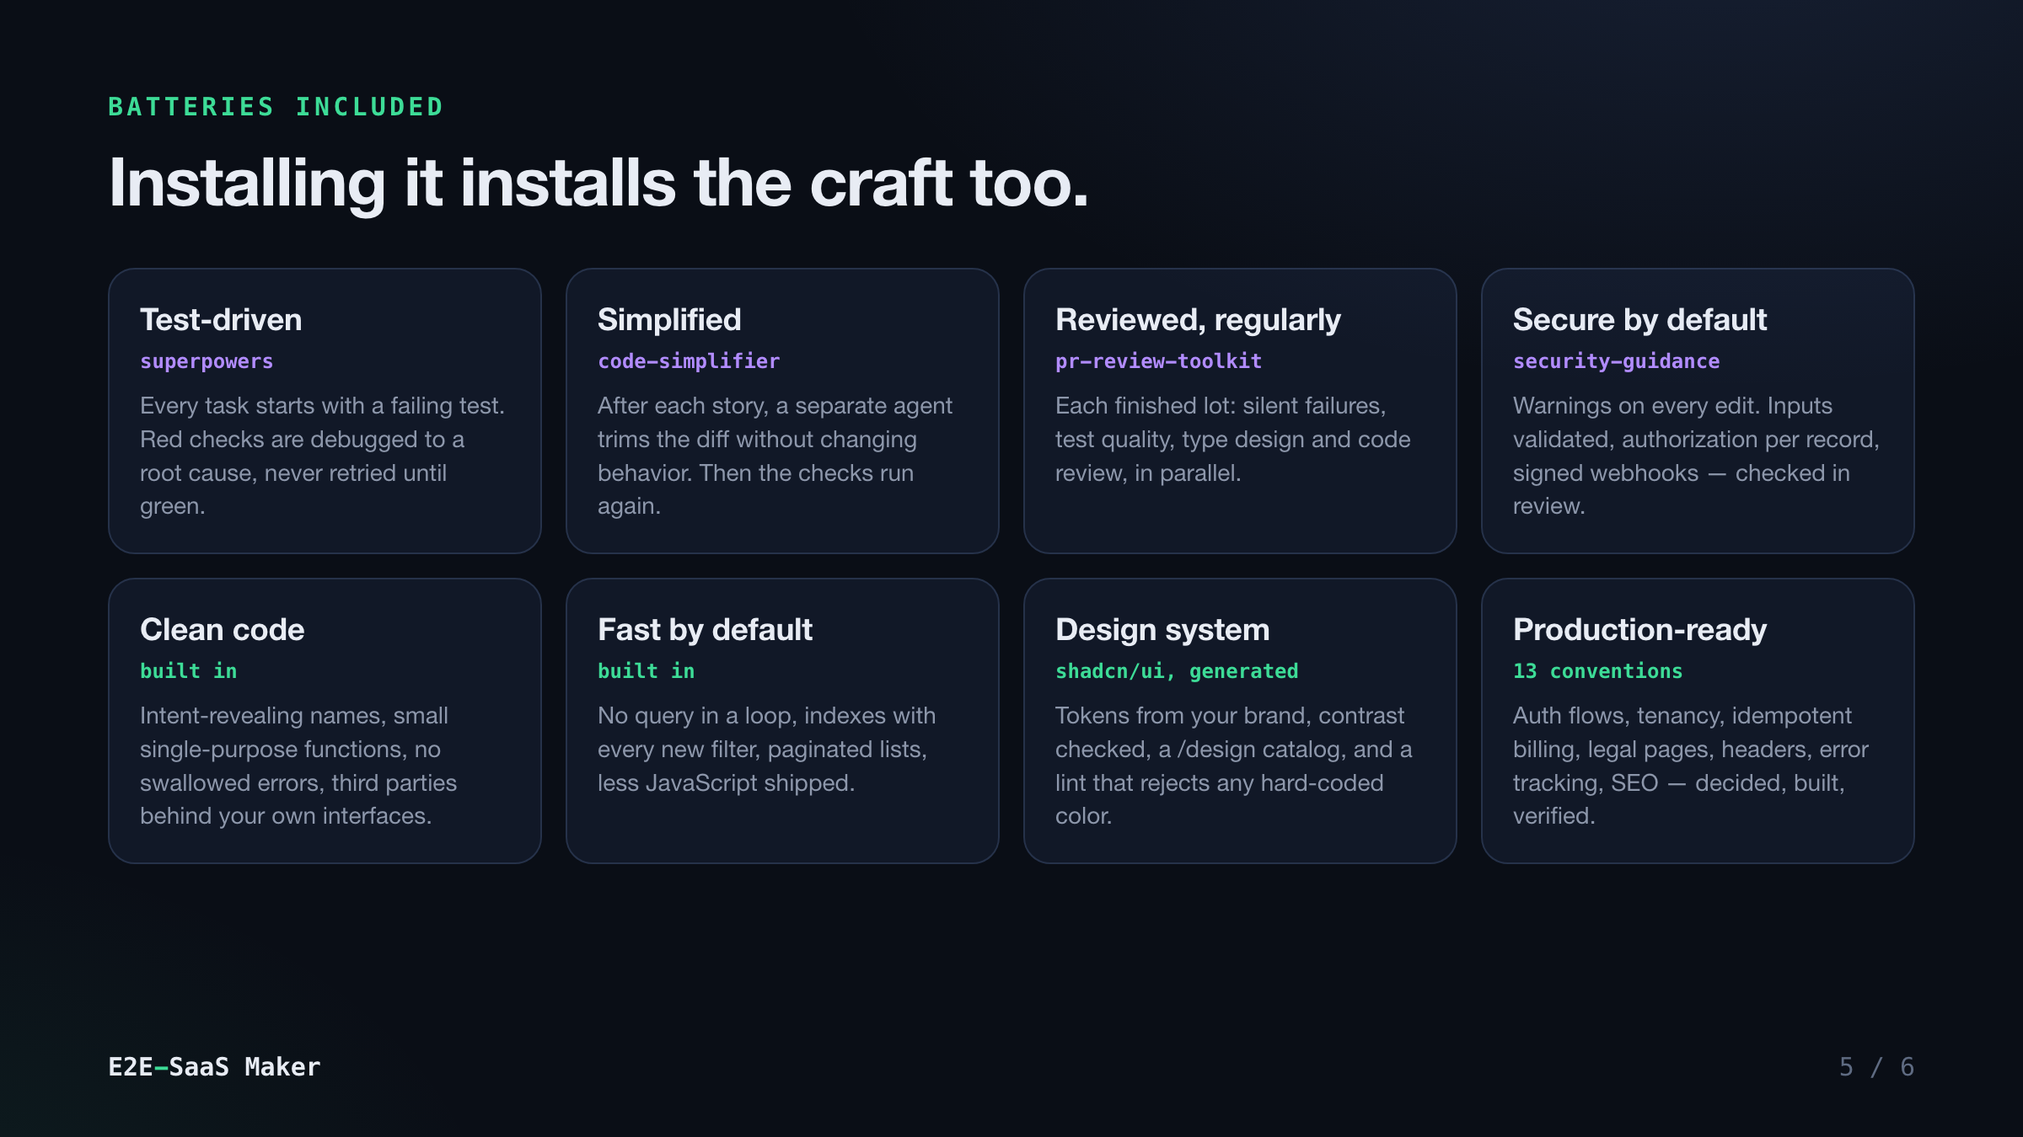
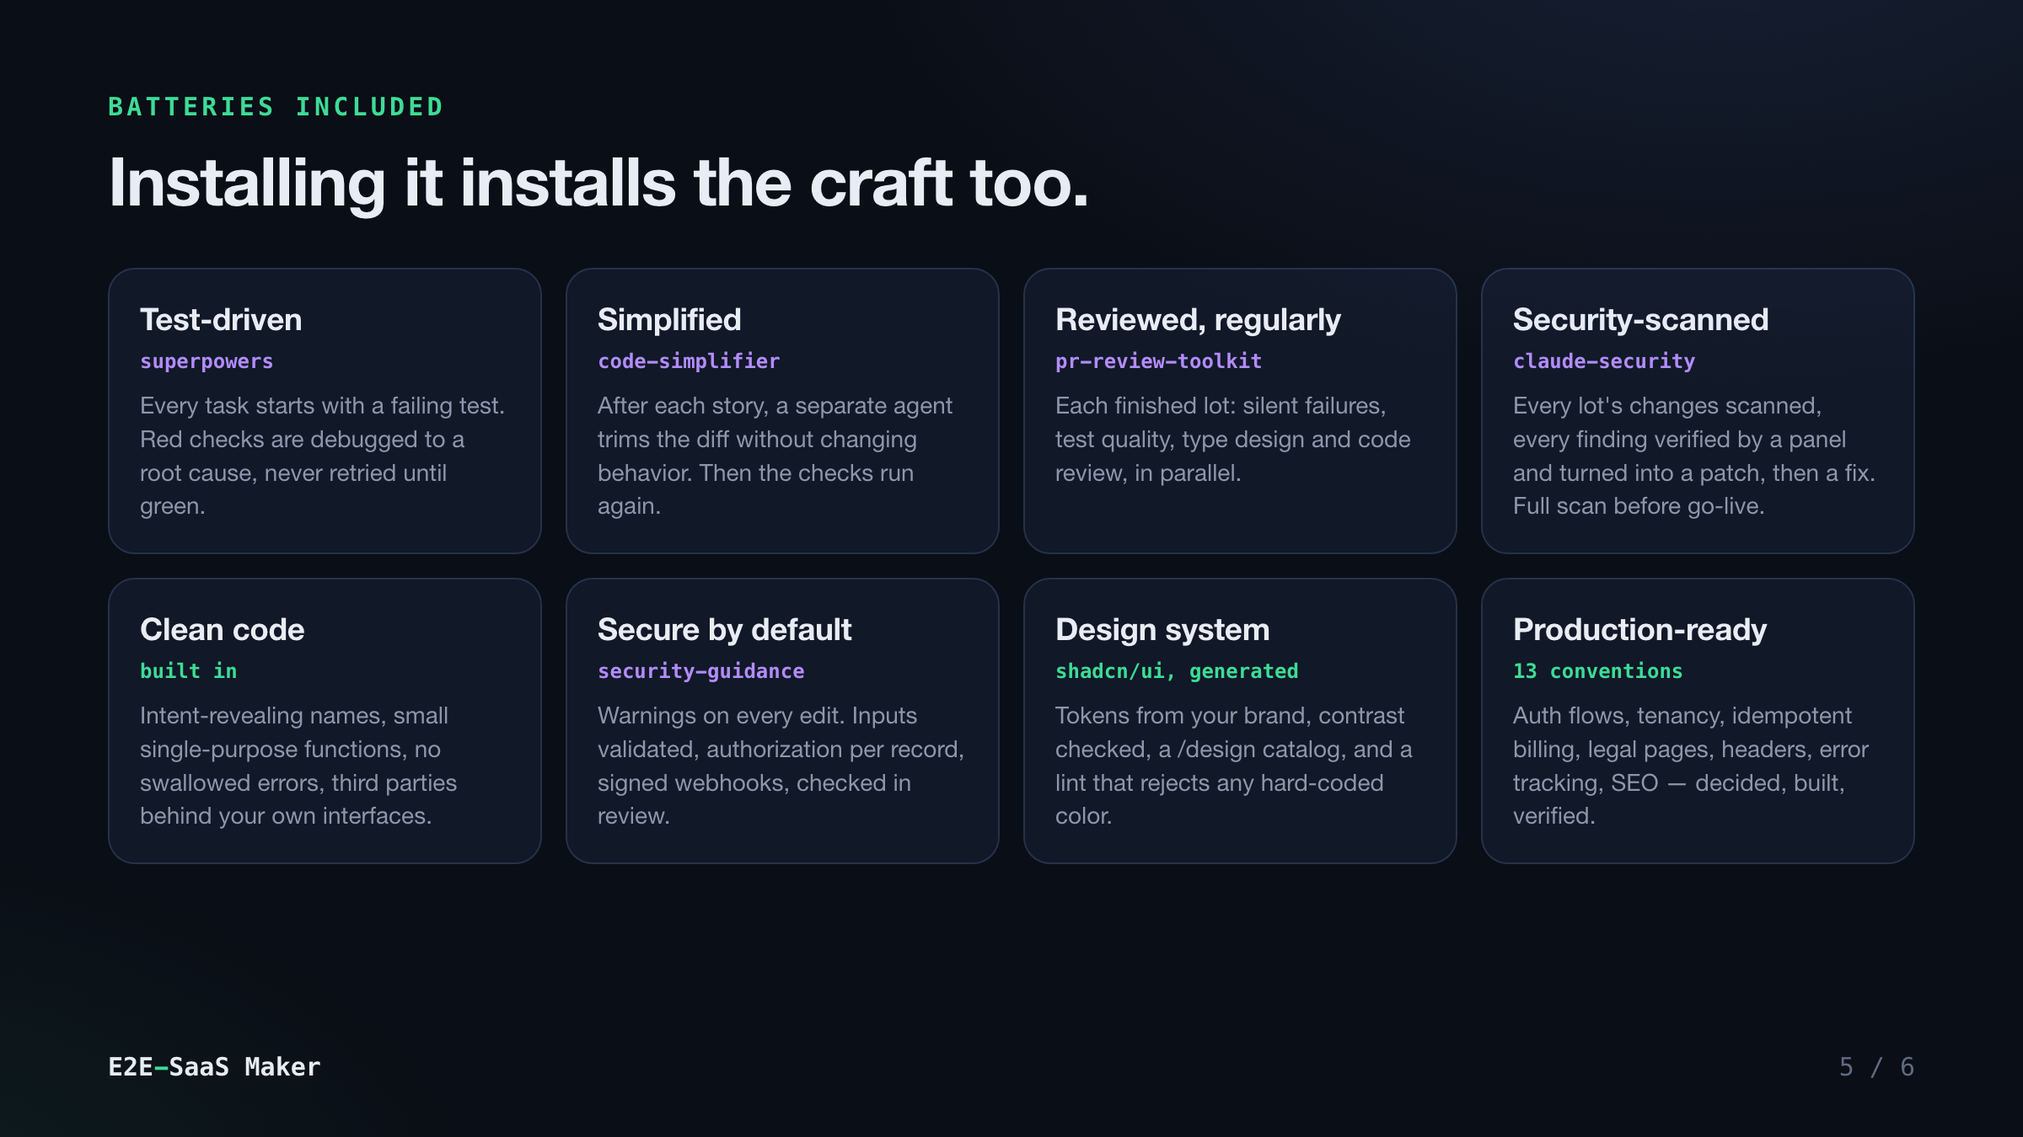
feat: Claude Security in the workflow — every lot scanned, full scan before go-live
- claude-security is a companion plugin (dependency, doctor)
- each lot review runs a scan of the changes since the last scanned lot; verified
  findings come with patch files and become repair stories
- ship runs a full codebase scan; nothing goes live with a critical or high finding open
- a lot review only counts as done with its Security scan line (clean, findings-filed,
  or unavailable with a reason); raw reports are gitignored and never committed
- README, how-it-works, flow diagram and cards updated

Changed region(s): [[0.75, 0.2489, 0.9375, 0.4667], [0.2812, 0.5289, 0.4688, 0.7156]]

diff --git a/docs/assets/src/flow.html b/docs/assets/src/flow.html
@@ -2,14 +2,14 @@
 html,body{height:300px}
 .wrap{position:relative;width:1200px;height:300px;padding:24px 28px;display:flex;align-items:center;gap:10px}
 .wrap::before{content:"";position:absolute;inset:0;background:radial-gradient(700px 300px at 85% -20%,rgba(110,155,255,.12),transparent 60%);pointer-events:none}
-.node{flex:0 0 122px;border-radius:16px;background:var(--panel);border:1.5px solid rgba(255,181,71,.6);padding:18px 16px;text-align:center}
+.node{flex:0 0 112px;border-radius:16px;background:var(--panel);border:1.5px solid rgba(255,181,71,.6);padding:18px 16px;text-align:center}
 .node .t{font:700 18px/1.1 var(--sans)}.node .w{font:600 13px/1.35 var(--mono);color:var(--amber);margin-top:8px}
 .ar{color:var(--dim);font-size:22px;flex:0 0 auto}
 .loop{flex:1;min-width:0;border:1.5px dashed rgba(110,155,255,.55);border-radius:20px;padding:40px 12px 30px;position:relative}
 .loop .lab{position:absolute;top:12px;left:18px;font:700 13px/1 var(--mono);letter-spacing:.1em;text-transform:uppercase;color:var(--blue)}
 .steps{display:flex;align-items:center;gap:4px}
 .s{flex:1;min-width:0;border-radius:12px;background:var(--panel2);border:1px solid var(--line);padding:12px 6px;text-align:center}
-.s .t{font:700 13.5px/1.1 var(--sans)}.s .w{font:600 10.5px/1.3 var(--mono);color:var(--muted);margin-top:6px}
+.s .t{font:700 12.5px/1.1 var(--sans)}.s .w{font:600 10px/1.3 var(--mono);color:var(--muted);margin-top:6px}
 .s.g{border-color:rgba(61,220,151,.55)}.s.g .w{color:var(--green)}
 .s.b{border-color:rgba(110,155,255,.55)}
 .s.v{border-color:rgba(178,140,255,.55)}
@@ -28,5 +28,6 @@ html,body{height:300px}
 <div class="s g"><div class="t">Integrate</div><div class="w">gates pass</div></div>
 </div><div class="back">↺ refused review → back to Build (twice max, then you)</div></div>
 <div class="ar">→</div>
-<div class="node"><div class="t">Ship</div><div class="w">you say<br>go</div></div>
+<div class="node" style="border-color:rgba(255,99,99,.6)"><div class="t">Every lot</div><div class="w" style="color:var(--red)">deep review<br>+ security<br>scan</div></div><div class="ar">→</div>
+<div class="node"><div class="t">Ship</div><div class="w">full scan,<br>you say go</div></div>
 </div></body></html>

diff --git a/docs/assets/src/5-craft.html b/docs/assets/src/5-craft.html
@@ -12,9 +12,9 @@
 <div class="c"><h3>Test-driven</h3><div class="tag">superpowers</div><p>Every task starts with a failing test. Red checks are debugged to a root cause, never retried until green.</p></div>
 <div class="c"><h3>Simplified</h3><div class="tag">code-simplifier</div><p>After each story, a separate agent trims the diff without changing behavior. Then the checks run again.</p></div>
 <div class="c"><h3>Reviewed, regularly</h3><div class="tag">pr-review-toolkit</div><p>Each finished lot: silent failures, test quality, type design and code review, in parallel.</p></div>
-<div class="c"><h3>Secure by default</h3><div class="tag">security-guidance</div><p>Warnings on every edit. Inputs validated, authorization per record, signed webhooks — checked in review.</p></div>
+<div class="c"><h3>Security-scanned</h3><div class="tag">claude-security</div><p>Every lot's changes scanned, every finding verified by a panel and turned into a patch, then a fix. Full scan before go-live.</p></div>
 <div class="c own"><h3>Clean code</h3><div class="tag">built in</div><p>Intent-revealing names, small single-purpose functions, no swallowed errors, third parties behind your own interfaces.</p></div>
-<div class="c own"><h3>Fast by default</h3><div class="tag">built in</div><p>No query in a loop, indexes with every new filter, paginated lists, less JavaScript shipped.</p></div>
+<div class="c"><h3>Secure by default</h3><div class="tag">security-guidance</div><p>Warnings on every edit. Inputs validated, authorization per record, signed webhooks, checked in review.</p></div>
 <div class="c own"><h3>Design system</h3><div class="tag">shadcn/ui, generated</div><p>Tokens from your brand, contrast checked, a /design catalog, and a lint that rejects any hard-coded color.</p></div>
 <div class="c own"><h3>Production-ready</h3><div class="tag">13 conventions</div><p>Auth flows, tenancy, idempotent billing, legal pages, headers, error tracking, SEO — decided, built, verified.</p></div>
 </div>

diff --git a/docs/assets/src/3-cycle.html b/docs/assets/src/3-cycle.html
@@ -33,7 +33,7 @@
 <div class="g"><span>✓</span></div>
 <div class="st s"><div class="box"><div class="t">Check</div><div class="w">build + e2e on the whole</div></div><div class="who">e2e.py</div></div>
 </div>
-<div class="back"><b>Refused?</b> A critical finding sends the story back to the builder with the review as its to-do list — <i>twice at most</i>, then it comes to you. Every finished lot gets a deep multi-agent review before the next one starts.</div>
+<div class="back"><b>Refused?</b> A critical finding sends the story back to the builder with the review as its to-do list — <i>twice at most</i>, then it comes to you. Every finished lot gets a deep multi-agent review and a <i>Claude Security</i> scan before the next one starts.</div>
 <div class="legend"><span class="pill"><span class="dot" style="background:var(--blue)"></span>agent of this plugin</span><span class="pill"><span class="dot" style="background:var(--violet)"></span>companion plugin</span><span class="pill"><span class="dot" style="background:var(--green)"></span>script, no opinion</span></div>
 <div class="foot"><span class="brand">E2E<b>-</b>SaaS Maker</span><span>3 / 6</span></div>
 </div></body></html>

diff --git a/skills/e2e-saas/scripts/e2e.py b/skills/e2e-saas/scripts/e2e.py
@@ -59,12 +59,15 @@ COMPANIONS = {
     "code-simplifier": "the simplification pass after every story",
     "pr-review-toolkit": "the lot reviews (silent failures, tests, type design)",
     "security-guidance": "security warnings on every edit",
+    "claude-security": "the security scan of every lot and of the whole code before going live",
 }
+SECURITY_SCAN_OUTCOMES = ("clean", "findings-filed", "unavailable")
 # Never committed by `verify`, whatever the project's .gitignore says.
 FORBIDDEN_STAGED = re.compile(
     r"(^|/)(node_modules|\.next|\.turbo|coverage|playwright-report|test-results)/"
     r"|(^|/)\.env(?!\.example$)[^/]*$"
     r"|\.(db|sqlite|sqlite3|log)$"
+    r"|(^|/)CLAUDE-SECURITY-[^/]*/"
 )
 MAX_STAGED_BYTES = 5_000_000
 BASE_GITIGNORE = """node_modules/
@@ -79,6 +82,7 @@ test-results/
 *.db
 *.sqlite
 .DS_Store
+CLAUDE-SECURITY-*/
 """
 
 # A check that cannot fail is a lie told by a green light.
@@ -692,8 +696,13 @@ def check_state(config: Config, done: set[str]) -> str:
 
 
 def lot_review_done(lot: str) -> bool:
+    """Done means reviewed AND security-scanned: a scan that did not run says so, with its reason."""
     path = project_root() / DOCS / "lots" / f"lot-{lot}-review.md"
-    return path.exists() and field_value(path.read_text(encoding="utf-8"), "Lot review") == "done"
+    if not path.exists():
+        return False
+    text = path.read_text(encoding="utf-8")
+    scan = (field_value(text, "Security scan") or "").split(" ", 1)[0]
+    return field_value(text, "Lot review") == "done" and scan in SECURITY_SCAN_OUTCOMES
 
 
 def framing_started() -> bool:

diff --git a/skills/e2e-saas/scripts/test_e2e.py b/skills/e2e-saas/scripts/test_e2e.py
@@ -377,6 +377,17 @@ class CycleTest(Project):
         sh("git", "mv", "config.txt", ".env.production", cwd=folder)
         self.assertTrue(e2e.verify("s01-skeleton").startswith("FAILED"))
 
+    def test_a_lot_review_without_its_security_scan_line_is_not_done(self):
+        self.frame()
+        self.integrate_first_story()
+        e2e.check()
+        review = self.root / "docs/e2e/lots/lot-0-review.md"
+        self.write("docs/e2e/lots/lot-0-review.md", "Lot review: done\n")
+        self.assertFalse(e2e.lot_review_done("0"))
+        self.assertIn({"story": None, "action": "lot-review", "lot": "0"}, e2e.status()["for_the_loop"])
+        review.write_text("Security scan: unavailable — no Workflow tool in this session\nLot review: done\n")
+        self.assertTrue(e2e.lot_review_done("0"))
+
     def test_stop_file_empties_the_loop_queue(self):
         self.frame()
         self.write("docs/e2e/STOP", "")

diff --git a/docs/how-it-works.md b/docs/how-it-works.md
@@ -64,12 +64,17 @@ own git worktree and goes through eight steps, with a gate between each one:
 
 When a lot is finished, the plugin runs a **deep review** before the next lot starts. Four
 review agents work in parallel: silent failures, test quality, type design and general code
-review. Each finding is verified by hand, and real ones become new stories.
+review. Alongside them, **[Claude Security](https://claude.com/marketplace/plugins/claude-security)**
+scans everything that changed since the last scanned lot; each candidate finding is challenged
+by its own verifier panel and comes with a patch file. Every real finding becomes a new story
+(the patch is the builder's starting point, still test-first). A lot review only counts as done
+when it records the scan's outcome: clean, findings filed, or unavailable with a reason.
 
 ### 3. Ship: with you
 
-`/e2e-saas-maker:ship` runs a final review of the whole diff and walks the real product in a
-browser. It then goes through the **ship log** with you: accounts, secrets, migrations, DNS
+`/e2e-saas-maker:ship` runs a final review of the whole diff, a **full Claude Security scan of
+the codebase** (nothing goes live with a verified critical or high finding open), and walks the
+real product in a browser. It then goes through the **ship log** with you: accounts, secrets, migrations, DNS
 and webhooks, collected story by story. Nothing touches production without your go. After
 deploying, it checks the live site from the outside, because a green deploy does not prove
 the site answers.
@@ -134,6 +139,7 @@ rules, they are the core of how code gets written:
 | `code-simplifier` | The simplification pass after every story |
 | `pr-review-toolkit` | The lot reviews: silent failures, test quality, type design, code review |
 | `security-guidance` | Security warnings on every edit |
+| [`claude-security`](https://claude.com/marketplace/plugins/claude-security) | A scan of every finished lot and of the whole codebase before going live, findings verified by a panel and delivered as patches |
 
 Clean-code principles, a security baseline and a performance baseline are built into the
 builder and reviewer instructions (`skills/e2e-saas/references/craft.md`). The fresh-context
@@ -191,7 +197,7 @@ picks up exactly where the files are.
 - **It builds a first version, not a company.** Expect a solid, tested v1 of the scope you
   approved. Judgment calls about the product stay yours.
 - **It spends tokens.** Every story uses four agents (plan, build, simplify, review), and
-  every lot runs four more reviewers. That is the price of not trusting a single context.
+  every lot runs four more reviewers plus a security scan. That is the price of not trusting a single context.
 - **Legal pages are templates.** Terms and privacy are drafted for the product and flagged
   for your review; they are not legal advice.
 - **Production needs you.** Accounts, secrets, DNS and the go-live are yours by design.

diff --git a/skills/e2e-saas/references/ship.md b/skills/e2e-saas/references/ship.md
@@ -11,18 +11,23 @@ When `E2E status` says everything is integrated, checked and reviewed:
    the PRD: done / partial / missing) is shown to the owner; a missing item becomes a story.
    Then walk the product in a real browser: the journey of the success criteria, end to
    end, at desktop and phone widths, in light and dark.
-3. **The ship log.** Gather every story's `docs/e2e/stories/<id>/ship.md` (they are in the
+3. **The full security scan** — `claude-security:claude-security`, job **scan codebase**,
+   effort `high`, then **suggest patches** for its findings. Every verified critical or high
+   finding becomes a repair story and the build goes on; **nothing goes live with one
+   open.** Medium and low ones are listed for the owner with their patch files. Copy the
+   report's summary into `docs/e2e/security.md` and commit it.
+4. **The ship log.** Gather every story's `docs/e2e/stories/<id>/ship.md` (they are in the
    build branch history: `git log --name-only e2e/build -- 'docs/e2e/stories/*/ship.md'`)
    into `docs/e2e/ship.md`, ordered, and commit it. Present it to the owner in order: accounts to create,
    secrets to set (names only), migrations, DNS, webhooks, with the check that proves each
    step. **Nothing runs in production without the owner's explicit go, step by step.** On
    their go you may run a step for them, recording the date and the check in the log.
-4. **Merge:** with the owner's yes, `git switch main && git merge --no-ff e2e/build` (or a
+5. **Merge:** with the owner's yes, `git switch main && git merge --no-ff e2e/build` (or a
    pull request if the repo has a remote: title = the product one-liner; body = PRD in
    brief, stories and their verdicts, what was not verified, the ship log). The merge is
    the owner's call, always.
-5. **Deploy and verify from the outside.** A green deploy does not prove the site answers:
+6. **Deploy and verify from the outside.** A green deploy does not prove the site answers:
    open the public URL, sign up as a stranger, do the core action, pay in test mode. Report
    what you saw, not what the dashboard says.
-6. **Hand over:** a short summary for the owner — what was built, how to run it locally,
+7. **Hand over:** a short summary for the owner — what was built, how to run it locally,
    where the docs are, the open items, and what you would build next from the graveyard.

diff --git a/skills/e2e-saas/references/build.md b/skills/e2e-saas/references/build.md
@@ -102,10 +102,26 @@ When every story of a lot is integrated and the check is green, before anything 
    `references/craft.md`. Companion missing: launch `e2e-saas-maker:reviewer` in lot mode instead.
 3. **Verify every finding yourself** against the code before keeping it: reviewers produce
    plausible findings too.
-4. Each real critical or major finding becomes a story (`s<next>-…`, in the hardening lot,
-   with the finding and its evidence in the notes). Fixes only — the graveyard still holds.
-5. Write `docs/e2e/lots/lot-<n>-review.md`: the range, the reviewers run, kept and dropped
-   findings with why, the stories created, and the last line `Lot review: done`. Commit.
+4. **The security scan** — run the `claude-security:claude-security` skill yourself (it
+   needs this session's Workflow tool; it cannot be delegated to a subagent), job **scan
+   changes**, on the range since the last scanned commit: `<last>..HEAD` of the build branch,
+   where `<last>` is the `Security scanned through:` commit of the previous lot review (the
+   first lot: the commit `init` made). Effort `medium`, `high` for a lot that touched auth,
+   billing or tenancy. Tell it the scan is pre-approved by the build so it does not stop to
+   confirm the cost. It writes `CLAUDE-SECURITY-<date>/` (gitignored); for findings, run its
+   **suggest patches** job on them too.
+5. Each real critical or major finding — from the reviewers or the scan — becomes a story
+   (`s<next>-…`, in the hardening lot, `Kind: repair` if it is a vulnerability already
+   integrated; the finding, its evidence and the scan's patch file path in the notes). The
+   builder applies the patch only as a starting point, test-first. Fixes only — the
+   graveyard still holds.
+6. Write `docs/e2e/lots/lot-<n>-review.md`: the range, the reviewers run, kept and dropped
+   findings with why, the scan's verified findings by severity, the stories created, then
+   `Security scanned through: <HEAD sha>`, `Security scan: <clean | findings-filed |
+   unavailable — reason>`, and the last line `Lot review: done`. Commit. **The script counts
+   a lot review as done only with a `Security scan:` line**: a scan that could not run (no
+   Workflow tool, the companion missing) is written as `unavailable` with the reason, never
+   left out.
 
 ## Never
 

diff --git a/README.md b/README.md
@@ -22,7 +22,7 @@ You are asked twice: **approve the scope** at the start, **go live** at the end.
 ```
 
 The companion plugins come with it: `superpowers` (TDD), `code-simplifier`,
-`pr-review-toolkit`, `security-guidance`.
+`pr-review-toolkit`, `security-guidance`, `claude-security`.
 
 ## Use
 
@@ -43,6 +43,7 @@ In an empty folder:
 | **Tested code** | every task starts with a failing test |
 | **Clean code** | simplified after each story, clean-code rules built in |
 | **Real reviews** | a fresh agent breaks the code on purpose to prove the tests catch it |
+| **Security-scanned** | every lot scanned by Claude Security, a full scan before go-live; findings become fixes |
 | **Design system** | generated from shadcn/ui and your brand; hard-coded colors are rejected |
 | **Production-ready** | auth, billing, legal pages, security, SEO: decided with you, then checked |
 | **Your call on prod** | nothing touches `main` or production without your go |

diff --git a/skills/e2e-saas/SKILL.md b/skills/e2e-saas/SKILL.md
@@ -71,6 +71,7 @@ Companion plugins, installed with this one, do the craft work between them:
 | `code-simplifier` | the `code-simplifier:code-simplifier` pass after every build, before verification |
 | `pr-review-toolkit` | the lot review: `silent-failure-hunter`, `pr-test-analyzer`, `type-design-analyzer`, `code-reviewer` |
 | `security-guidance` | warnings on every edit, without being asked |
+| `claude-security` | a scan of every finished lot's changes and of the whole code before going live; findings verified by a panel, turned into patch files, then into repair stories. Run it from this session (it needs the Workflow tool) |
 
 `E2E doctor` says which companions are present. A missing one is never silently skipped:
 the step falls back to the guidance in `references/craft.md`, and the record says so.

diff --git a/skills/e2e-saas/references/frame.md b/skills/e2e-saas/references/frame.md
@@ -20,7 +20,8 @@ lines it prints, once.
 (`../<project>.e2e/`). Ask the owner to run the `/add-dir` line that `init` prints, and to
 run the build in a permission mode that lets agents edit files and run the project's
 commands without a prompt each time (auto-accept edits, plus an allowlist for the package
-manager and the test tools). A build that stops on a permission prompt is not one shot.
+manager and the test tools). A build that stops on a permission prompt is not one shot. Auto mode also lets the
+`claude-security` scans run unattended at each lot.
 
 The PRD, stack and story templates are in `${CLAUDE_PLUGIN_ROOT}/skills/e2e-saas/templates/`:
 copy each one into `docs/e2e/` only when you are ready to fill it — `E2E status` treats an

diff --git a/skills/e2e-saas/references/rules.md b/skills/e2e-saas/references/rules.md
@@ -55,6 +55,8 @@ These are the rules no agent can see anywhere else. When this file and the proje
 
 - How code is written: `references/craft.md` (TDD, clean code, simplification, security,
   performance). How it is tested: `references/testing.md`.
+- **A security finding is a story, never a shrug.** Verified critical and high findings
+  from `claude-security` become repair stories; nothing ships with one open.
 - **A red check is never "flaky" until proven.** Use `superpowers:systematic-debugging`:
   reproduce, find the root cause, then fix. Retrying until green is not a fix.
 - **A check is only trusted once it has been seen red.** A test that cannot fail protects
